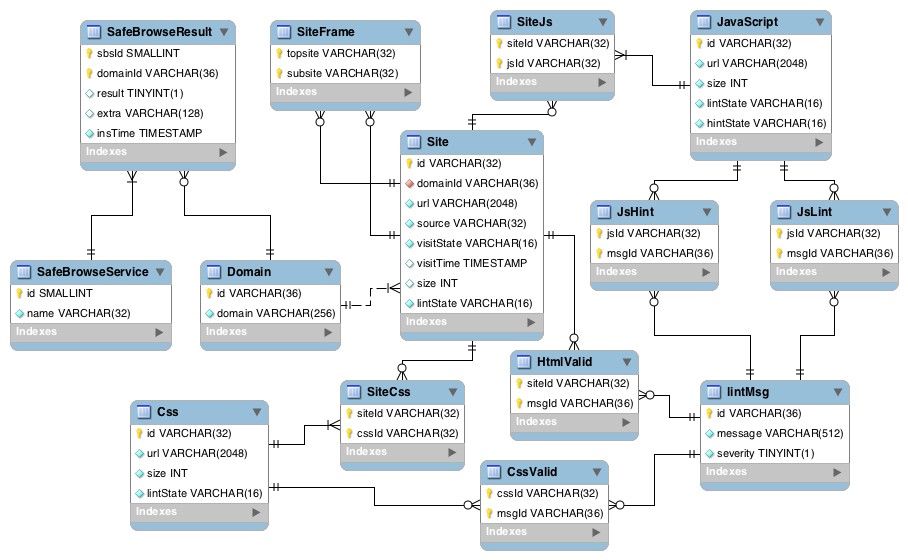
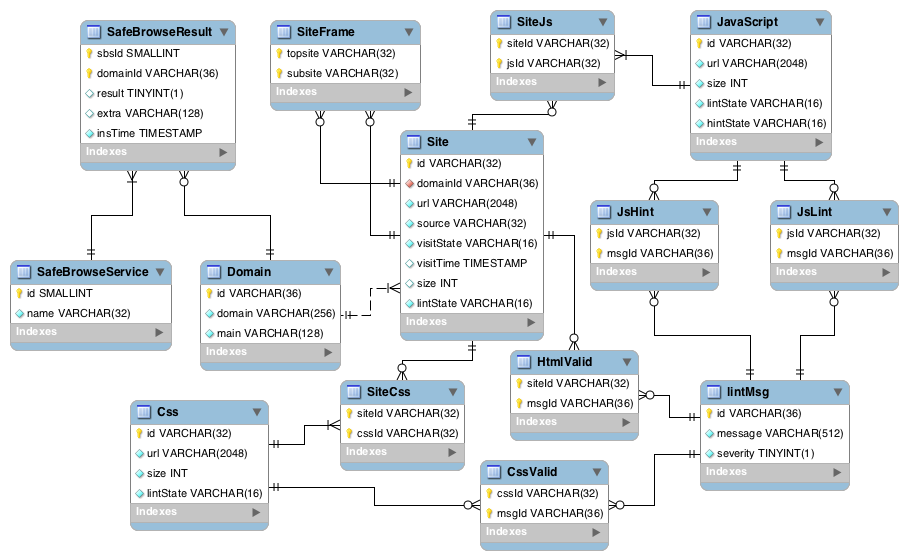
tweak to DomainFinder

Changed region(s): [[0.2159, 0.5464, 0.4009, 0.6679]]

diff --git a/src/main/java/edu/uccs/arenger/hilas/dal/Domain.java b/src/main/java/edu/uccs/arenger/hilas/dal/Domain.java
@@ -1,15 +1,21 @@
 package edu.uccs.arenger.hilas.dal;
 
+import java.io.BufferedReader;
+import java.io.FileReader;
 import java.net.URL;
 import java.sql.Connection;
 import java.sql.PreparedStatement;
 import java.sql.ResultSet;
 import java.sql.SQLException;
 import java.util.ArrayList;
+import java.util.Collections;
+import java.util.HashSet;
 import java.util.List;
+import java.util.Set;
 import java.util.UUID;
 import java.util.concurrent.ConcurrentHashMap;
 import java.util.concurrent.ConcurrentMap;
+import java.util.regex.Pattern;
 
 import org.slf4j.Logger;
 import org.slf4j.LoggerFactory;
@@ -17,13 +23,23 @@ import org.slf4j.LoggerFactory;
 public final class Domain {
    private static final Logger LOGGER = LoggerFactory.getLogger(Domain.class);
 
+   private static final Set<String> BIG7;
+
+   static {
+      BIG7 = new HashSet<String>();
+      BIG7.add("biz"); BIG7.add("com"); BIG7.add("edu"); BIG7.add("gov");
+      BIG7.add("mil"); BIG7.add("net"); BIG7.add("org");
+   };
+
    private String id;
    private String domain;
    
    private static ConcurrentMap<String,String> cache
       = new ConcurrentHashMap<String,String>(); //domain->id
+   private static Set<String> mains
+      = Collections.newSetFromMap(new ConcurrentHashMap<String,Boolean>());
 
-   private static final String INS = "insert into domain values (?, ?)";
+   private static final String INS = "insert into domain values (?, ?, ?)";
    private static final String SEL_DOM =
       "select id from domain where domain = ?";
    private static final String SEL_SBS =
@@ -31,6 +47,10 @@ public final class Domain {
       "left join safebrowseresult r on d.id = r.domainid " +
       "group by d.id having (sum(ifnull(r.sbsid,0)) & ?) = 0 limit ?";
    private static final String SEL_COUNT = "select count(*) from domain";
+   private static final String MAIN_EXISTS =
+      "select 1 from domain where main = ? limit 1";
+
+   private static final Pattern onlyDigits = Pattern.compile("\\d+");
 
    private Domain(String id, String domain) {
       this.id = id;
@@ -49,38 +69,72 @@ public final class Domain {
          id = getFromDb(domain);
          if (id != null) {
             cache.put(domain,id);
+            mains.add(getMain(domain));
             return new Domain(id, domain);
          }
       }
       return insert(domain);
    }
 
-   /* If the domain specified by url is new, then return its ID.
-    * Otherwise (if we've already seen it), then return null. */
-   public static String getIdIfNew(URL url) throws DalException {
-      String domain = url.getHost();
-      String id = cache.get(domain);
-      if (id != null) {
-         return null;
-      } else {
-         id = getFromDb(domain);
-         if (id != null) {
-            cache.put(domain,id);
-            return null;
-         }
+   public static String getMain(URL url) {
+      return getMain(url.getHost());
+   }
+
+   // a rough attempt to identify the main part of this domain -
+   public static String getMain(String domain) {
+      if (domain == null) { return null; }
+      String[] parts = domain.toLowerCase().split("\\.");
+      if (parts.length < 2) { return domain; }
+      String last = parts[parts.length - 1];
+      String stl  = parts[parts.length - 2];
+      if (onlyDigits.matcher(last).matches()) {
+         return domain; // assume it's an IP address
       }
-      return insert(domain).id;
+      if (parts.length == 2) {
+         return domain;
+      }
+      String main = null;
+      String test = stl + "." + last;
+      if (test.length() < 6) {
+         main = parts[parts.length - 3] + "." + test;
+      } else if ((last.length() == 2) && (BIG7.contains(stl))) {
+         main = parts[parts.length - 3] + "." + test;
+      } else {
+         main = test;
+      }
+      return main;
+   }
+
+   public static boolean seenMain(URL url) throws DalException {
+      String main = getMain(url.getHost());
+      if (mains.contains(main)) { return true; }
+      boolean ret = false;
+      try (Connection conn = Pool.getConnection();
+           PreparedStatement ps = conn.prepareStatement(MAIN_EXISTS)) {
+         ps.setString(1, main);
+         ResultSet rs = ps.executeQuery();
+         if (rs.next()) {
+            ret = true;
+            mains.add(main);
+         }
+      } catch (SQLException e) {
+         throw new DalException(e);
+      }
+      return ret;
    }
 
    private static Domain insert(String domain) throws DalException {
       Domain ret = null;
       String id = UUID.randomUUID().toString();
+      String main = getMain(domain);
       try (Connection conn = Pool.getConnection();
            PreparedStatement ps = conn.prepareStatement(INS)) {
          ps.setString(1, id);
          ps.setString(2, domain);
+         ps.setString(3, main);
          ps.executeUpdate();
          cache.put(domain,id);
+         mains.add(main);
          ret = new Domain(id, domain);
          LOGGER.info("inserted new domain: {} - {}", id, domain);
       } catch (SQLException e) {
@@ -138,5 +192,22 @@ public final class Domain {
          }
       } catch (SQLException e) { throw new DalException(e); }
       return ret;
+   }
+
+   public static void main(String[] args) throws Exception {
+      if (args.length < 1) {
+         System.out.println("see usage");
+         System.exit(1);
+      }
+      try (BufferedReader in
+         = new BufferedReader(new FileReader(args[0]))) {
+         String dom;
+         while ((dom = in.readLine()) != null) {
+            String main = getMain(dom);
+            System.out.printf("%30s : %30s  %s\n", dom, main,
+               (dom.length() != main.length()) ? "*" : ""
+            );
+         }
+      }
    }
 }

diff --git a/src/main/java/edu/uccs/arenger/hilas/DomainFinder.java b/src/main/java/edu/uccs/arenger/hilas/DomainFinder.java
@@ -44,14 +44,9 @@ public class DomainFinder implements Worker {
       }
       Matcher m = urlPat.matcher(html);
       while (m.find()) {
-         //TODO for reasons i don't feel like typing out right now,
-         //i think we'd find more domains if we were to save all
-         //these urls in some structure and then iterate over them
-         //randomly -- but i'll wait on implementing that for now.
          try {
             URL newUrl = new URL(m.group(1));
-            String domainId = Domain.getIdIfNew(newUrl);
-            if (domainId != null) {
+            if (!Domain.seenMain(newUrl)) {
                Site site = new Site(newUrl, "DomainFinder");
                site.insert();
             } else {
@@ -114,7 +109,7 @@ public class DomainFinder implements Worker {
     * has already seen.  We'll visit these urls (i.e. revisit their
     * domains) only if there are no "NEW" domains to visit.  This 
     * structure should enforce upper limits on its total size as well
-    * as the number of urls of the same domain. */
+    * as the number of urls of the same "main" domain. */
    private class UrlKeeper extends HashSet<URL> {
       private static final long serialVersionUID = 1L;
       private static final int MAX_SIZE = 3000;
@@ -123,7 +118,7 @@ public class DomainFinder implements Worker {
          = new HashMap<String,Integer>();
       public void considerKeeping(URL url) {
          if (this.size() > MAX_SIZE) { return; }
-         String domain = url.getHost();
+         String domain = Domain.getMain(url);
          Integer count = domainCounts.get(domain);
          if (count != null) {
             if (count > MAX_PER_DOM) { return; }
@@ -139,7 +134,7 @@ public class DomainFinder implements Worker {
          if (i.hasNext()) {
             ret = i.next();
             this.remove(ret);
-            String dom = ret.getHost();
+            String dom = Domain.getMain(ret);
             int count = domainCounts.get(dom);
             domainCounts.put(dom, count - 1);
          }

diff --git a/src/main/java/edu/uccs/arenger/hilas/Hilas.java b/src/main/java/edu/uccs/arenger/hilas/Hilas.java
@@ -15,8 +15,10 @@ import org.slf4j.Logger;
 import org.slf4j.LoggerFactory;
 
 import edu.uccs.arenger.hilas.dal.DalException;
+import edu.uccs.arenger.hilas.dal.PkViolation;
 import edu.uccs.arenger.hilas.dal.Pool;
 import edu.uccs.arenger.hilas.dal.Site;
+import edu.uccs.arenger.hilas.dal.Site.VisitState;
 import edu.uccs.arenger.hilas.dal.UkViolation;
 import edu.uccs.arenger.hilas.quality.CssvManager;
 import edu.uccs.arenger.hilas.quality.HtmlChecker;
@@ -185,17 +187,21 @@ public final class Hilas {
 
          boolean proceed = false;
          URL url = null;
+         Site site = null;
          try {
             url = new URL(seedUrl);
             if (Util.protocolOk(url)) {
-               Site site = new Site(url, "seedUrl");
+               site = new Site(url, "seedUrl");
                site.insert();
                proceed = true;
             } else {
                LOGGER.error("unsupported protocol: " + url);
             }
-         } catch (UkViolation e) {
-            LOGGER.warn("already exists: " + url);
+         } catch (PkViolation e) {
+            LOGGER.info("already exists: " + url);
+            site.setState(VisitState.NEW);
+            site.update();
+            proceed = true;
          } catch (MalformedURLException e) {
             LOGGER.error("malformed url: " + url);
          }

diff --git a/src/main/java/edu/uccs/arenger/hilas/DomainCounter.java b/src/main/java/edu/uccs/arenger/hilas/DomainCounter.java
@@ -13,11 +13,11 @@ public class DomainCounter implements Worker {
       = LoggerFactory.getLogger(DomainCounter.class);
 
    public long getDelay() {
-      return 5;
+      return 1;
    }
 
    public TimeUnit getTimeUnit() {
-      return TimeUnit.SECONDS;
+      return TimeUnit.MINUTES;
    }
 
    private void wrappedRun() {
